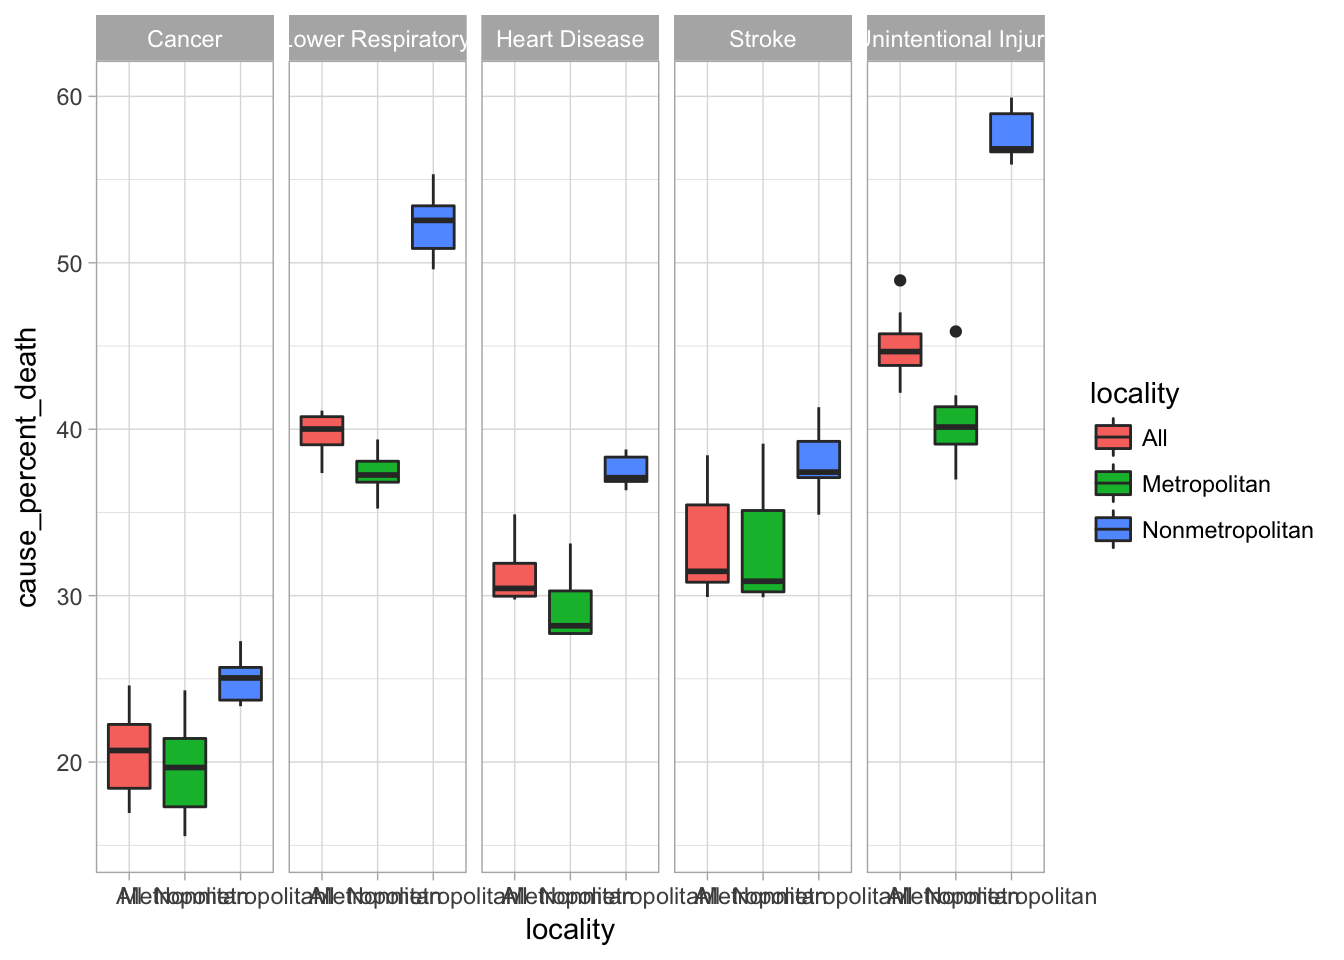
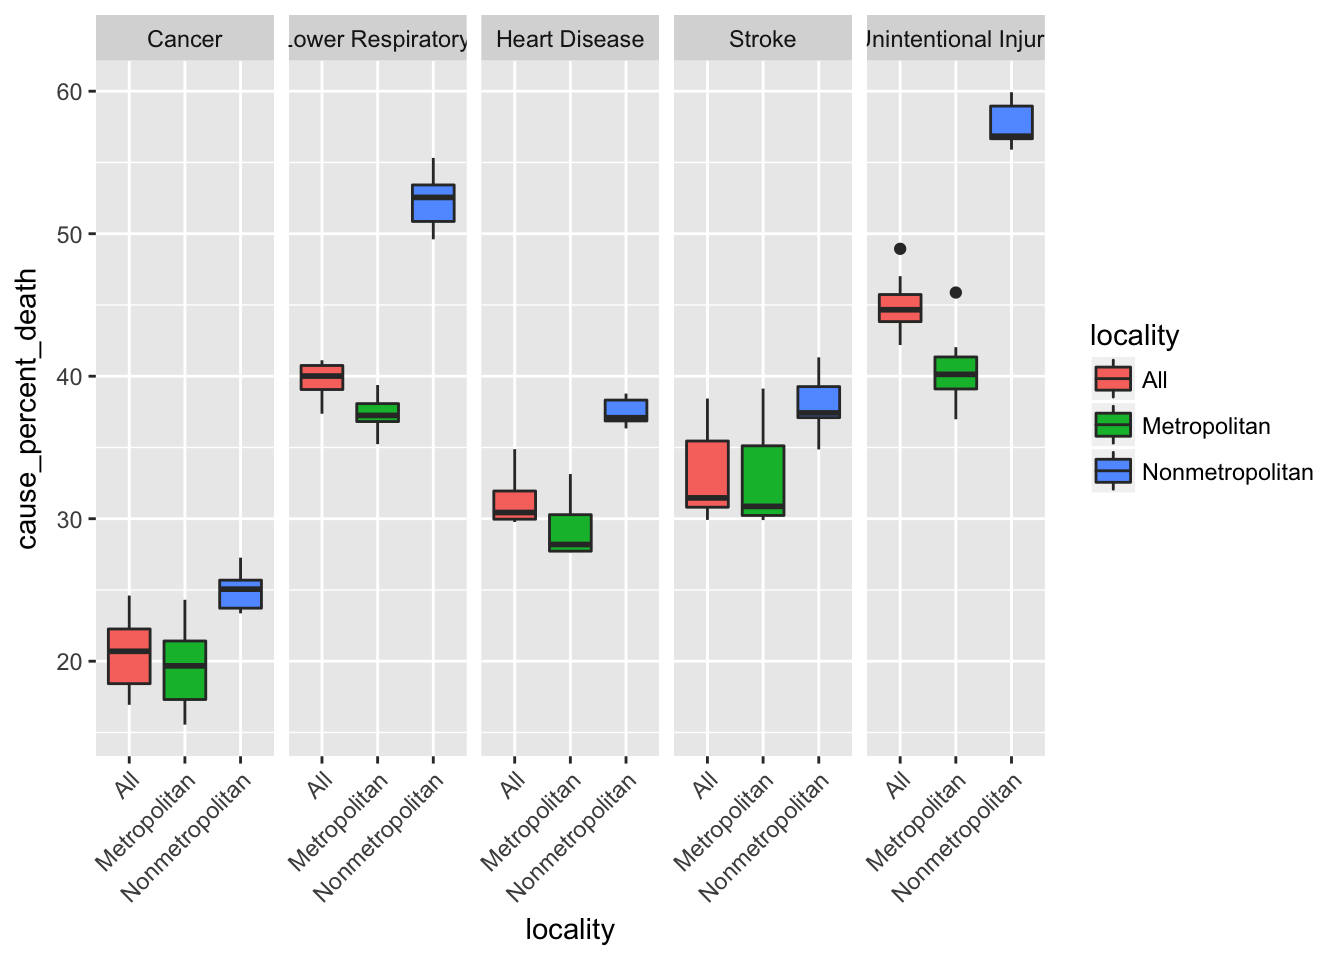
added map for percent  excess death

diff --git a/p8105_hw6_xs2329.html b/p8105_hw6_xs2329.html
@@ -1,0 +1,247 @@
+<!DOCTYPE html>
+
+<html xmlns="http://www.w3.org/1999/xhtml">
+
+<head>
+
+<meta charset="utf-8" />
+<meta http-equiv="Content-Type" content="text/html; charset=utf-8" />
+<meta name="generator" content="pandoc" />
+
+
+<meta name="author" content="chianti shi" />
+
+<meta name="date" content="2017-11-16" />
+
+<title>p8105_hw6_xs2329</title>
+
+<script src="site_libs/jquery-1.11.3/jquery.min.js"></script>
+<meta name="viewport" content="width=device-width, initial-scale=1" />
+<link href="site_libs/bootstrap-3.3.5/css/bootstrap.min.css" rel="stylesheet" />
+<script src="site_libs/bootstrap-3.3.5/js/bootstrap.min.js"></script>
+<script src="site_libs/bootstrap-3.3.5/shim/html5shiv.min.js"></script>
+<script src="site_libs/bootstrap-3.3.5/shim/respond.min.js"></script>
+<script src="site_libs/navigation-1.1/tabsets.js"></script>
+<link href="site_libs/highlightjs-1.1/default.css" rel="stylesheet" />
+<script src="site_libs/highlightjs-1.1/highlight.js"></script>
+<link href="site_libs/font-awesome-4.5.0/css/font-awesome.min.css" rel="stylesheet" />
+
+<style type="text/css">code{white-space: pre;}</style>
+<style type="text/css">
+  pre:not([class]) {
+    background-color: white;
+  }
+</style>
+<script type="text/javascript">
+if (window.hljs && document.readyState && document.readyState === "complete") {
+   window.setTimeout(function() {
+      hljs.initHighlighting();
+   }, 0);
+}
+</script>
+
+
+
+<style type="text/css">
+h1 {
+  font-size: 34px;
+}
+h1.title {
+  font-size: 38px;
+}
+h2 {
+  font-size: 30px;
+}
+h3 {
+  font-size: 24px;
+}
+h4 {
+  font-size: 18px;
+}
+h5 {
+  font-size: 16px;
+}
+h6 {
+  font-size: 12px;
+}
+.table th:not([align]) {
+  text-align: left;
+}
+</style>
+
+
+</head>
+
+<body>
+
+<style type = "text/css">
+.main-container {
+  max-width: 940px;
+  margin-left: auto;
+  margin-right: auto;
+}
+code {
+  color: inherit;
+  background-color: rgba(0, 0, 0, 0.04);
+}
+img {
+  max-width:100%;
+  height: auto;
+}
+.tabbed-pane {
+  padding-top: 12px;
+}
+button.code-folding-btn:focus {
+  outline: none;
+}
+</style>
+
+
+<style type="text/css">
+/* padding for bootstrap navbar */
+body {
+  padding-top: 51px;
+  padding-bottom: 40px;
+}
+/* offset scroll position for anchor links (for fixed navbar)  */
+.section h1 {
+  padding-top: 56px;
+  margin-top: -56px;
+}
+
+.section h2 {
+  padding-top: 56px;
+  margin-top: -56px;
+}
+.section h3 {
+  padding-top: 56px;
+  margin-top: -56px;
+}
+.section h4 {
+  padding-top: 56px;
+  margin-top: -56px;
+}
+.section h5 {
+  padding-top: 56px;
+  margin-top: -56px;
+}
+.section h6 {
+  padding-top: 56px;
+  margin-top: -56px;
+}
+</style>
+
+<script>
+// manage active state of menu based on current page
+$(document).ready(function () {
+  // active menu anchor
+  href = window.location.pathname
+  href = href.substr(href.lastIndexOf('/') + 1)
+  if (href === "")
+    href = "index.html";
+  var menuAnchor = $('a[href="' + href + '"]');
+
+  // mark it active
+  menuAnchor.parent().addClass('active');
+
+  // if it's got a parent navbar menu mark it active as well
+  menuAnchor.closest('li.dropdown').addClass('active');
+});
+</script>
+
+
+<div class="container-fluid main-container">
+
+<!-- tabsets -->
+<script>
+$(document).ready(function () {
+  window.buildTabsets("TOC");
+});
+</script>
+
+<!-- code folding -->
+
+
+
+
+
+
+<div class="navbar navbar-default  navbar-fixed-top" role="navigation">
+  <div class="container">
+    <div class="navbar-header">
+      <button type="button" class="navbar-toggle collapsed" data-toggle="collapse" data-target="#navbar">
+        <span class="icon-bar"></span>
+        <span class="icon-bar"></span>
+        <span class="icon-bar"></span>
+      </button>
+      <a class="navbar-brand" href="index.html">Home</a>
+    </div>
+    <div id="navbar" class="navbar-collapse collapse">
+      <ul class="nav navbar-nav">
+        
+      </ul>
+      <ul class="nav navbar-nav navbar-right">
+        <li>
+  <a href="about.html">About</a>
+</li>
+<li>
+  <a href="mailto:&lt;you@youremail.com&gt;">
+    <span class="fa fa-envelope fa-lg"></span>
+     
+  </a>
+</li>
+<li>
+  <a href="http://github.com/&lt;YOUR_GH_NAME&gt;/">
+    <span class="fa fa-github fa-lg"></span>
+     
+  </a>
+</li>
+      </ul>
+    </div><!--/.nav-collapse -->
+  </div><!--/.container -->
+</div><!--/.navbar -->
+
+<div class="fluid-row" id="header">
+
+
+
+<h1 class="title toc-ignore">p8105_hw6_xs2329</h1>
+<h4 class="author"><em>chianti shi</em></h4>
+<h4 class="date"><em>11/16/2017</em></h4>
+
+</div>
+
+
+<p>In this assignment, I worked with Yulan Zhang (yz3306).</p>
+<p>A link to to the website produced in Problem 3 can be found here <a href="https://fionalav.github.io/p8105_hw6_website/">here</a>.</p>
+
+
+
+
+</div>
+
+<script>
+
+// add bootstrap table styles to pandoc tables
+function bootstrapStylePandocTables() {
+  $('tr.header').parent('thead').parent('table').addClass('table table-condensed');
+}
+$(document).ready(function () {
+  bootstrapStylePandocTables();
+});
+
+
+</script>
+
+<!-- dynamically load mathjax for compatibility with self-contained -->
+<script>
+  (function () {
+    var script = document.createElement("script");
+    script.type = "text/javascript";
+    script.src  = "https://mathjax.rstudio.com/latest/MathJax.js?config=TeX-AMS-MML_HTMLorMML";
+    document.getElementsByTagName("head")[0].appendChild(script);
+  })();
+</script>
+
+</body>
+</html>

diff --git a/p8105_final_project.html b/p8105_final_project.html
@@ -245,31 +245,6 @@ $(document).ready(function () {
 <li>Added a variable <code>mortality</code> which is calculated by observed_deaths/population * 10000. This variable indicates the number of deathes observed in every 10000 people in the three geographic regions: <code>Metropolitan</code>, <code>Nonmetropolitan</code> and <code>All</code>.</li>
 </ul>
 <p>xs2329: This bar graph shows the distribution of cause of death within mortality in the three geographic regions: <code>Metropolitan</code>, <code>Nonmetropolitan</code> and <code>All</code>.</p>
-<pre class="r"><code>cod_data %&gt;% 
-  group_by(hhs_region) %&gt;%
-  summarise(mean_ped = mean(percent_excess_death)) </code></pre>
-<pre><code>## # A tibble: 10 x 2
-##    hhs_region mean_ped
-##         &lt;int&gt;    &lt;dbl&gt;
-##  1          1 22.82538
-##  2          2 21.21859
-##  3          3 38.25915
-##  4          4 50.35335
-##  5          5 33.98758
-##  6          6 46.87136
-##  7          7 35.42475
-##  8          8 27.81179
-##  9          9 31.26415
-## 10         10 29.62460</code></pre>
-<pre class="r"><code>if (require(maps)) {
-  states_map &lt;- map_data(&quot;state&quot;)
-  ggplot(cod_data, aes(map_id = hhs_region)) +
-    geom_map(aes(fill = mean_ped), map = states_map) +
-    expand_limits(x = states_map$long, y = states_map$lat)
-}</code></pre>
-<pre><code>## Loading required package: maps</code></pre>
-<pre><code>## Warning in library(package, lib.loc = lib.loc, character.only = TRUE,
-## logical.return = TRUE, : there is no package called &#39;maps&#39;</code></pre>
 <pre class="r"><code>cod_data %&gt;%
   group_by(cause_of_death) %&gt;% 
   ggplot(aes(x = locality, y = mortality, fill = cause_of_death)) +
@@ -335,8 +310,8 @@ cod_datayr%&gt;%
   ungroup(year, locality)%&gt;%
   ggplot(aes(x = year, y = year_percent_death))+
   facet_grid(. ~locality)+
-geom_line(aes(color = cause_of_death),size = 1)+
-  theme_light()</code></pre>
+geom_line(aes(color = cause_of_death),size = 1) +
+  theme(axis.text.x = element_text(angle = 45, hjust = 1))</code></pre>
 <p><img src="p8105_final_project_files/figure-html/cl3664%20plot-1.png" width="672" /></p>
 <pre class="r"><code># mean access percent death of each cause in different locality
 cod_datayr%&gt;%
@@ -346,8 +321,8 @@ cod_datayr%&gt;%
   ungroup(year, locality)%&gt;%
   ggplot(aes(x = locality, y = cause_percent_death))+
   facet_grid(. ~cause_of_death)+
-geom_boxplot(aes(fill = locality))+
-  theme_light()</code></pre>
+geom_boxplot(aes(fill = locality)) +
+  theme(axis.text.x = element_text(angle = 45, hjust = 1))</code></pre>
 <p><img src="p8105_final_project_files/figure-html/cl3664%20plot2-1.png" width="672" /></p>
 <pre class="r"><code>#For each of the five cause of death, what is the mean percent of excess death? It is different across locality.
 library(forcats)
@@ -409,18 +384,28 @@ broom::tidy(cod_lm_yz3)</code></pre>
 ## 5 224.67413  0.000000e+00
 ## 6 -23.04484 2.395346e-117
 ## 7  89.70276  0.000000e+00</code></pre>
-<<<<<<< HEAD
-<pre class="r"><code>#Do we need to include the plot of the linear model?
-#Why is everything significant? Is there a problem?
-#How to make a scatterplot for regression with catagorical variables?
-#How to interpret percent excess death?</code></pre>
-=======
 <pre class="r"><code>#Do we need to include the plot of the linear model? Some plots. 
 #Why is everything significant? Is there a problem? Don&#39;t focus on p-value. Calculate CI and other estimates.
 #How to make a scatterplot for regression with catagorical variables? We don&#39;t need to.
 #How to interpret percent excess death? According to the benchmark of the three lowest states.
 #How to make a map? Still under investigation...</code></pre>
->>>>>>> 45a7f8380788be991b8a0dbae7bc6eb37e8e4f4d
+<pre class="r"><code>map_cod_data = cod_data%&gt;%
+  filter(locality == &quot;Metropolitan&quot;) %&gt;% 
+  select(state, locality, percent_excess_death) %&gt;% 
+  group_by(state) %&gt;% 
+  summarise(mean_ped = mean(percent_excess_death)) 
+
+df &lt;- as_data_frame(list(state = unique(fifty_states$id), rate = unique(map_cod_data$mean_ped)))
+
+ggplot(df, aes(map_id = state)) + 
+  geom_map(aes(fill = rate), map = fifty_states) + 
+  expand_limits(x = fifty_states$long, y = fifty_states$lat) + 
+  labs(x = &quot;&quot;, y = &quot;&quot;) +
+  theme(panel.background = element_blank(), 
+        axis.text.x = element_blank(), 
+        axis.text.y = element_blank(), 
+        axis.ticks = element_blank())</code></pre>
+<p><img src="p8105_final_project_files/figure-html/unnamed-chunk-1-1.png" width="672" /></p>
 </div>
 
 
